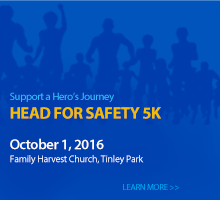
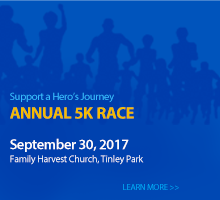
2017 race date updates

Changed region(s): [[0.0273, 0.51, 0.7364, 0.6], [0.0273, 0.69, 0.6, 0.78]]

diff --git a/includes/constants.php b/includes/constants.php
@@ -4,7 +4,7 @@ $c_szShowSponsorshipLogos = true;
 // 5K race settings.
 $c_bRegistrationOpen = true;	// whether or not to allow users to access the 5K race form.
 $c_bShowPledgeChallenge = true;	// whether or not to show the pledge section on the 5K race form.
-$c_szRaceId = "NV2VJH7";		// form id from signmeup.com for the 5K race.
+$c_szRaceId = "502VBH7";		// form id from signmeup.com for the 5K race.
 
 $c_szRaceIdentifier = "";
 
